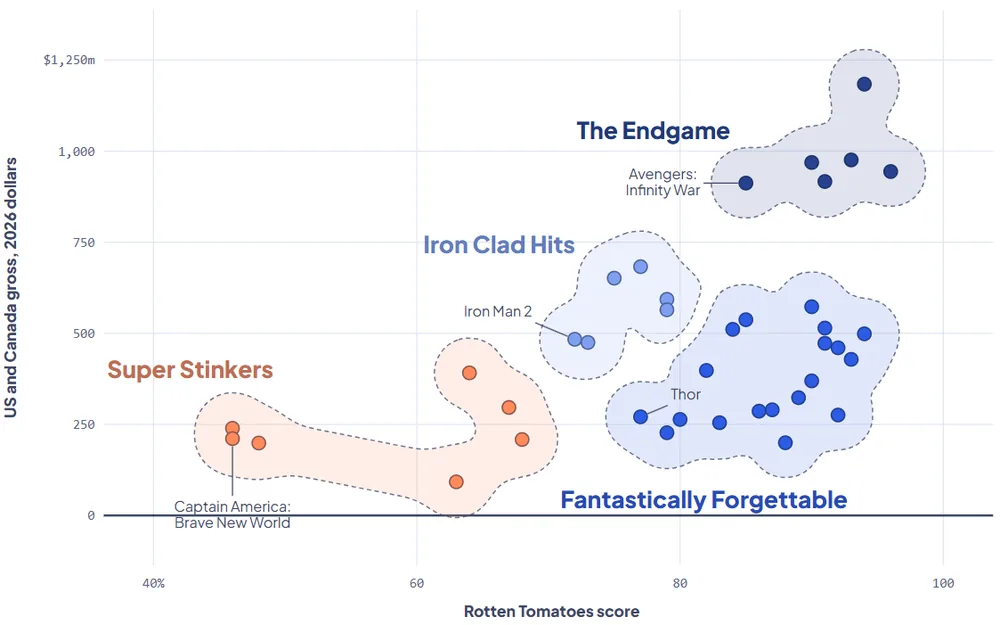
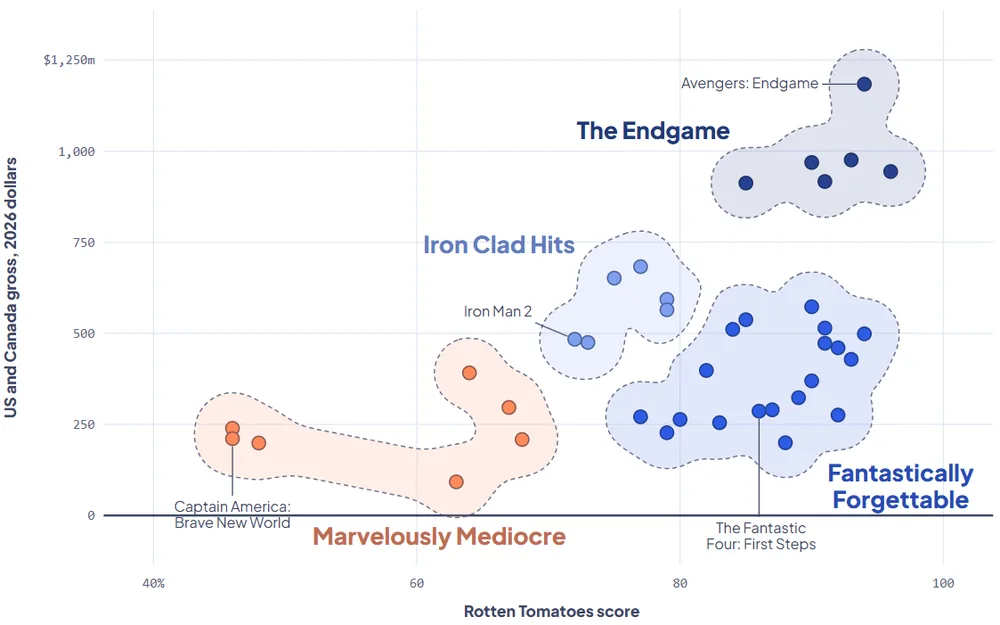
Rename the Marvel chart's lowest group and update its callouts

diff --git a/examples/marvel-movies.html b/examples/marvel-movies.html
@@ -764,6 +764,7 @@ function pickCallouts(g, Pts, quota) { // pinned items, then the most extreme it
   const own = g.ix.filter(i => pinned.has(i)); if (manual.has(g.e)) return own;
   const out = [...own], cx = V.mean(g.ix.map(i => Pts[i].px)), cy = V.mean(g.ix.map(i => Pts[i].py));
   const far = (ax, ay) => g.ix.filter(i => !out.includes(i)).sort((a, b) => Math.hypot(Pts[b].px - ax, Pts[b].py - ay) - Math.hypot(Pts[a].px - ax, Pts[a].py - ay))[0];
+  { const want = g.ix.find(i => S.rows[i].featured && !out.includes(i)); if (want !== undefined && out.length < quota) out.push(want); }
   while (out.length < quota && out.length < g.ix.length) { const ref = out.length ? Pts[out[out.length - 1]] : { px: cx, py: cy }, n = far(ref.px, ref.py); if (n === undefined) break; out.push(n); }
   return out;
 }
@@ -947,7 +948,7 @@ V.mount(render);
 </div>
 <script>
 (() => {
-  const EX = {"rows": [{"name": "Iron Man", "x": 94.0, "y": 498.5, "cluster": "Fantastically Forgettable"}, {"name": "The Incredible Hulk", "x": 68.0, "y": 208.5, "cluster": "Super Stinkers"}, {"name": "Iron Man 2", "x": 72.0, "y": 483.6, "cluster": "Iron Clad Hits"}, {"name": "Thor", "x": 77.0, "y": 270.8, "cluster": "Fantastically Forgettable"}, {"name": "Captain America: The First Avenger", "x": 80.0, "y": 263.6, "cluster": "Fantastically Forgettable"}, {"name": "The Avengers", "x": 91.0, "y": 916.6, "cluster": "The Endgame"}, {"name": "Iron Man 3", "x": 79.0, "y": 593.2, "cluster": "Iron Clad Hits"}, {"name": "Thor: The Dark World", "x": 67.0, "y": 296.5, "cluster": "Super Stinkers"}, {"name": "Captain America: The Winter Soldier", "x": 90.0, "y": 369.4, "cluster": "Fantastically Forgettable"}, {"name": "Guardians of the Galaxy", "x": 91.0, "y": 472.6, "cluster": "Fantastically Forgettable"}, {"name": "Avengers: Age of Ultron", "x": 75.0, "y": 651.3, "cluster": "Iron Clad Hits"}, {"name": "Ant-Man", "x": 83.0, "y": 254.6, "cluster": "Fantastically Forgettable"}, {"name": "Captain America: Civil War", "x": 90.0, "y": 572.9, "cluster": "Fantastically Forgettable"}, {"name": "Doctor Strange", "x": 89.0, "y": 323.3, "cluster": "Fantastically Forgettable"}, {"name": "Guardians of the Galaxy Vol. 2", "x": 85.0, "y": 537.3, "cluster": "Fantastically Forgettable"}, {"name": "Spider-Man: Homecoming", "x": 92.0, "y": 460.2, "cluster": "Fantastically Forgettable"}, {"name": "Thor: Ragnarok", "x": 93.0, "y": 428.5, "cluster": "Fantastically Forgettable"}, {"name": "Black Panther", "x": 96.0, "y": 944.0, "cluster": "The Endgame"}, {"name": "Avengers: Infinity War", "x": 85.0, "y": 912.3, "cluster": "The Endgame"}, {"name": "Ant-Man and the Wasp", "x": 87.0, "y": 290.0, "cluster": "Fantastically Forgettable"}, {"name": "Captain Marvel", "x": 79.0, "y": 564.5, "cluster": "Iron Clad Hits"}, {"name": "Avengers: Endgame", "x": 94.0, "y": 1183.8, "cluster": "The Endgame"}, {"name": "Spider-Man: Far From Home", "x": 91.0, "y": 514.4, "cluster": "Fantastically Forgettable"}, {"name": "Black Widow", "x": 79.0, "y": 227.1, "cluster": "Fantastically Forgettable"}, {"name": "Shang-Chi and the Legend of the Ten Rings", "x": 92.0, "y": 275.7, "cluster": "Fantastically Forgettable"}, {"name": "Eternals", "x": 48.0, "y": 198.8, "cluster": "Super Stinkers"}, {"name": "Spider-Man: No Way Home", "x": 93.0, "y": 975.8, "cluster": "The Endgame"}, {"name": "Doctor Strange in the Multiverse of Madness", "x": 73.0, "y": 474.9, "cluster": "Iron Clad Hits"}, {"name": "Thor: Love and Thunder", "x": 64.0, "y": 391.4, "cluster": "Super Stinkers"}, {"name": "Black Panther: Wakanda Forever", "x": 84.0, "y": 510.8, "cluster": "Fantastically Forgettable"}, {"name": "Ant-Man and the Wasp: Quantumania", "x": 46.0, "y": 239.3, "cluster": "Super Stinkers"}, {"name": "Guardians of the Galaxy Vol. 3", "x": 82.0, "y": 398.0, "cluster": "Fantastically Forgettable"}, {"name": "The Marvels", "x": 63.0, "y": 92.2, "cluster": "Super Stinkers"}, {"name": "Deadpool & Wolverine", "x": 77.0, "y": 682.9, "cluster": "Iron Clad Hits"}, {"name": "Captain America: Brave New World", "x": 46.0, "y": 210.9, "cluster": "Super Stinkers"}, {"name": "Thunderbolts*", "x": 88.0, "y": 199.6, "cluster": "Fantastically Forgettable"}, {"name": "The Fantastic Four: First Steps", "x": 86.0, "y": 286.3, "cluster": "Fantastically Forgettable"}, {"name": "Spider-Man: Brand New Day", "x": 90.0, "y": 968.9, "cluster": "The Endgame"}], "title": "The four kinds of Marvel movie", "sub": "US and Canada gross vs. Rotten Tomatoes score, adjusted for inflation", "xt": "Rotten Tomatoes score", "yt": "US and Canada gross, 2026 dollars", "source": "Source: <a href=\"https://en.wikipedia.org/wiki/List_of_Marvel_Cinematic_Universe_films\" rel=\"noopener\">Wikipedia</a>, including Rotten Tomatoes scores. Adjusted to Sept. 2026 dollars with US CPI", "hint": "Right-click or tap a dot to show or hide its label. Drag labels to move them."};
+  const EX = {"rows": [{"name": "Iron Man", "x": 94.0, "y": 498.5, "cluster": "Fantastically Forgettable", "featured": false}, {"name": "The Incredible Hulk", "x": 68.0, "y": 208.5, "cluster": "Marvelously Mediocre", "featured": false}, {"name": "Iron Man 2", "x": 72.0, "y": 483.6, "cluster": "Iron Clad Hits", "featured": false}, {"name": "Thor", "x": 77.0, "y": 270.8, "cluster": "Fantastically Forgettable", "featured": false}, {"name": "Captain America: The First Avenger", "x": 80.0, "y": 263.6, "cluster": "Fantastically Forgettable", "featured": false}, {"name": "The Avengers", "x": 91.0, "y": 916.6, "cluster": "The Endgame", "featured": false}, {"name": "Iron Man 3", "x": 79.0, "y": 593.2, "cluster": "Iron Clad Hits", "featured": false}, {"name": "Thor: The Dark World", "x": 67.0, "y": 296.5, "cluster": "Marvelously Mediocre", "featured": false}, {"name": "Captain America: The Winter Soldier", "x": 90.0, "y": 369.4, "cluster": "Fantastically Forgettable", "featured": false}, {"name": "Guardians of the Galaxy", "x": 91.0, "y": 472.6, "cluster": "Fantastically Forgettable", "featured": false}, {"name": "Avengers: Age of Ultron", "x": 75.0, "y": 651.3, "cluster": "Iron Clad Hits", "featured": false}, {"name": "Ant-Man", "x": 83.0, "y": 254.6, "cluster": "Fantastically Forgettable", "featured": false}, {"name": "Captain America: Civil War", "x": 90.0, "y": 572.9, "cluster": "Fantastically Forgettable", "featured": false}, {"name": "Doctor Strange", "x": 89.0, "y": 323.3, "cluster": "Fantastically Forgettable", "featured": false}, {"name": "Guardians of the Galaxy Vol. 2", "x": 85.0, "y": 537.3, "cluster": "Fantastically Forgettable", "featured": false}, {"name": "Spider-Man: Homecoming", "x": 92.0, "y": 460.2, "cluster": "Fantastically Forgettable", "featured": false}, {"name": "Thor: Ragnarok", "x": 93.0, "y": 428.5, "cluster": "Fantastically Forgettable", "featured": false}, {"name": "Black Panther", "x": 96.0, "y": 944.0, "cluster": "The Endgame", "featured": false}, {"name": "Avengers: Infinity War", "x": 85.0, "y": 912.3, "cluster": "The Endgame", "featured": false}, {"name": "Ant-Man and the Wasp", "x": 87.0, "y": 290.0, "cluster": "Fantastically Forgettable", "featured": false}, {"name": "Captain Marvel", "x": 79.0, "y": 564.5, "cluster": "Iron Clad Hits", "featured": false}, {"name": "Avengers: Endgame", "x": 94.0, "y": 1183.8, "cluster": "The Endgame", "featured": true}, {"name": "Spider-Man: Far From Home", "x": 91.0, "y": 514.4, "cluster": "Fantastically Forgettable", "featured": false}, {"name": "Black Widow", "x": 79.0, "y": 227.1, "cluster": "Fantastically Forgettable", "featured": false}, {"name": "Shang-Chi and the Legend of the Ten Rings", "x": 92.0, "y": 275.7, "cluster": "Fantastically Forgettable", "featured": false}, {"name": "Eternals", "x": 48.0, "y": 198.8, "cluster": "Marvelously Mediocre", "featured": false}, {"name": "Spider-Man: No Way Home", "x": 93.0, "y": 975.8, "cluster": "The Endgame", "featured": false}, {"name": "Doctor Strange in the Multiverse of Madness", "x": 73.0, "y": 474.9, "cluster": "Iron Clad Hits", "featured": false}, {"name": "Thor: Love and Thunder", "x": 64.0, "y": 391.4, "cluster": "Marvelously Mediocre", "featured": false}, {"name": "Black Panther: Wakanda Forever", "x": 84.0, "y": 510.8, "cluster": "Fantastically Forgettable", "featured": false}, {"name": "Ant-Man and the Wasp: Quantumania", "x": 46.0, "y": 239.3, "cluster": "Marvelously Mediocre", "featured": false}, {"name": "Guardians of the Galaxy Vol. 3", "x": 82.0, "y": 398.0, "cluster": "Fantastically Forgettable", "featured": false}, {"name": "The Marvels", "x": 63.0, "y": 92.2, "cluster": "Marvelously Mediocre", "featured": false}, {"name": "Deadpool & Wolverine", "x": 77.0, "y": 682.9, "cluster": "Iron Clad Hits", "featured": false}, {"name": "Captain America: Brave New World", "x": 46.0, "y": 210.9, "cluster": "Marvelously Mediocre", "featured": false}, {"name": "Thunderbolts*", "x": 88.0, "y": 199.6, "cluster": "Fantastically Forgettable", "featured": false}, {"name": "The Fantastic Four: First Steps", "x": 86.0, "y": 286.3, "cluster": "Fantastically Forgettable", "featured": true}, {"name": "Spider-Man: Brand New Day", "x": 90.0, "y": 968.9, "cluster": "The Endgame", "featured": false}], "title": "The four kinds of Marvel movie", "sub": "US and Canada gross vs. Rotten Tomatoes score, adjusted for inflation", "xt": "Rotten Tomatoes score", "yt": "US and Canada gross, 2026 dollars", "source": "Source: <a href=\"https://en.wikipedia.org/wiki/List_of_Marvel_Cinematic_Universe_films\" rel=\"noopener\">Wikipedia</a>, including Rotten Tomatoes scores. Adjusted to Sept. 2026 dollars with US CPI", "hint": "Right-click or tap a dot to show or hide its label. Drag labels to move them.", "below": "Marvelously Mediocre"};
   renameGroup = () => {}; // the names are part of this example
   addEventListener("DOMContentLoaded", () => {
     Object.assign(S, { sample: "example", rows: EX.rows, names: [...new Set(EX.rows.map(d => d.cluster))].map(name => ({ name, x: 0, y: 0 })), k: "data", calls: innerWidth < 600 ? 0 : 1, hasGroups: true, xt: EX.xt, xf: "#%", yt: EX.yt, yf: "$#m" });
@@ -957,7 +958,7 @@ V.mount(render);
     ctl.insertBefore(outline, end); ctl.insertBefore(callouts, end); ctl.insertBefore(theme, end);
     const back = document.createElement("a"); back.className = "ex-back"; back.href = "index.html"; back.textContent = "← Chart examples"; document.querySelector(".stage").prepend(back);
     $id("cs-chart").addEventListener("contextmenu", e => { const dot = e.target.closest("[data-hit]"); if (!dot) return; e.preventDefault(); V.untip(); dot.dispatchEvent(new MouseEvent("click", { bubbles: true })); });
-    resetEdits(); recluster(); render();
+    resetEdits(); moved["n" + S.names.findIndex(n => n.name === EX.below)] = { x: 52, y: -20 }; moved["p" + S.rows.findIndex(d => d.name === "The Fantastic Four: First Steps")] = { x: 81.9, y: -10 }; recluster(); render();
   });
 })();
 </script>

diff --git a/examples/index.html b/examples/index.html
@@ -67,7 +67,7 @@
         <div class="work-grid">
           <article class="work-card">
             <a class="work-link" href="marvel-movies.html">
-              <div class="thumb"><img src="../assets/img/chart-examples.webp" alt="Scatter plot of 38 Marvel movies by Rotten Tomatoes score and US and Canada gross, circled into four named groups: The Endgame, Iron Clad Hits, Fantastically Forgettable and Super Stinkers" width="1000" height="625" loading="lazy"></div>
+              <div class="thumb"><img src="../assets/img/chart-examples.webp" alt="Scatter plot of 38 Marvel movies by Rotten Tomatoes score and US and Canada gross, circled into four named groups: The Endgame, Iron Clad Hits, Fantastically Forgettable and Marvelously Mediocre" width="1000" height="625" loading="lazy"></div>
               <div class="work-body">
                 <div class="tags"><span class="tag tag-hl">Clustering</span><span class="tag">HTML &amp; JS</span></div>
                 <h3>The four kinds of Marvel movie</h3>
